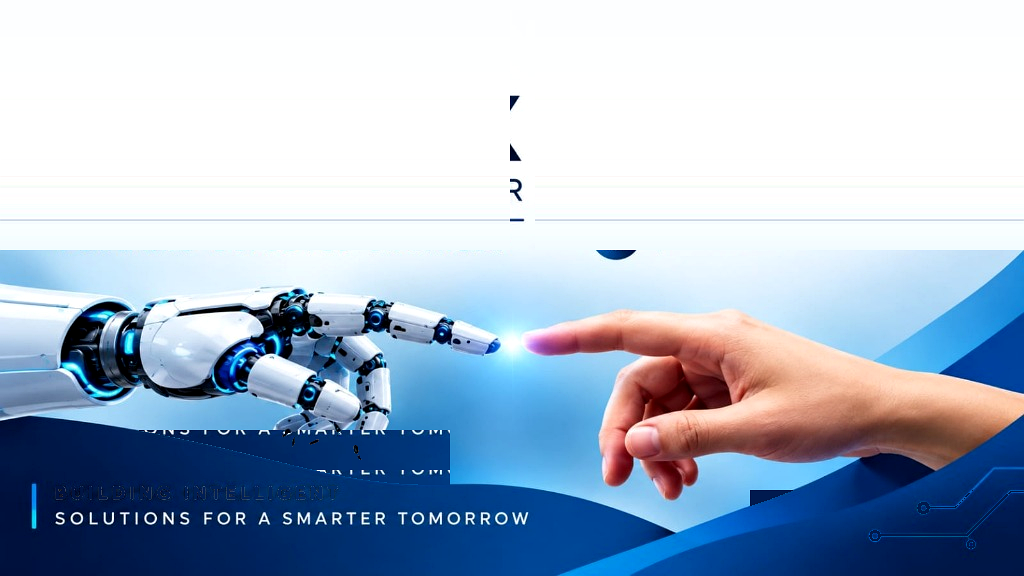
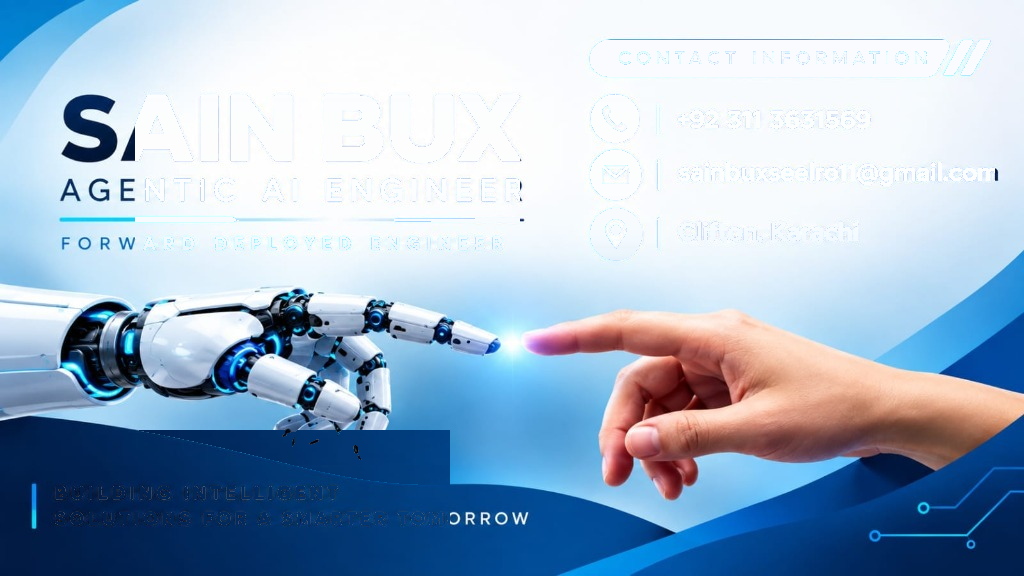
Set visiting card artwork without text in hero with aesthetic holographic sheen and 3D float

diff --git a/src/components/Hero.tsx b/src/components/Hero.tsx
@@ -73,43 +73,52 @@ export default function Hero() {
             </div>
           </div>
 
-          {/* Right Column: Prominent Robot & Human Hand Image */}
+          {/* Right Column: High-Tech Card (Clean Artwork without Fonts) */}
           <div className="lg:col-span-5 relative flex items-center justify-center w-full">
-            {/* Sleek aesthetic frame with floating motion */}
+            {/* Aesthetic Floating Card with 3D Float Motion */}
             <motion.div
               animate={{
-                y: [0, -8, 0],
+                y: [0, -10, 0],
+                rotateZ: [0, 0.6, -0.6, 0],
               }}
               transition={{
-                duration: 5,
+                duration: 6,
                 repeat: Infinity,
                 ease: "easeInOut",
               }}
-              whileHover={{ scale: 1.02 }}
-              className="relative w-full max-w-[540px] aspect-[16/9] rounded-2xl overflow-hidden shadow-xl shadow-[#0B1F5C]/10 border border-[#CFE6FF] bg-white group transition-all"
+              whileHover={{ scale: 1.03, y: -5 }}
+              className="relative w-full max-w-[540px] aspect-[16/9] rounded-2xl overflow-hidden shadow-[0_16px_36px_rgba(11,31,92,0.14),0_4px_12px_rgba(30,167,255,0.1)] border border-[#CFE6FF] bg-white group transition-all"
             >
-              {/* Top-left subtle pill badge: HUMAN x AI */}
-              <div className="absolute top-3 left-3 z-10 px-2.5 py-1 rounded-full bg-white/95 border border-[#CFE6FF] shadow-xs text-[10px] font-mono font-bold text-[#1553C7] flex items-center gap-1.5 pointer-events-none">
-                <span className="w-1.5 h-1.5 rounded-full bg-[#1EA7FF] animate-pulse" />
-                <span>HUMAN &times; AI SYNERGY</span>
-              </div>
-
               <Image
                 src="/hero-hands.png"
-                alt="AI Robot and Human Hand Touching with Glowing Energy Spark"
+                alt="Agentic AI & Engineering Cyber Card Art"
                 fill
                 sizes="(max-width: 768px) 100vw, (max-width: 1200px) 50vw, 540px"
                 priority
-                className="object-cover object-center transform group-hover:scale-105 transition-transform duration-700"
+                className="object-cover object-center transform group-hover:scale-102 transition-transform duration-700"
               />
 
-              {/* Crisp Star Glint (Zero blur!) */}
-              <div className="absolute top-[57.6%] left-[51.7%] -translate-x-1/2 -translate-y-1/2 pointer-events-none">
+              {/* Aesthetic Light Sheen Sweep Animation */}
+              <motion.div
+                animate={{
+                  x: ["-150%", "250%"],
+                }}
+                transition={{
+                  duration: 4,
+                  repeat: Infinity,
+                  repeatDelay: 3.5,
+                  ease: "easeInOut",
+                }}
+                className="absolute inset-0 w-1/3 h-full bg-gradient-to-r from-transparent via-white/25 to-transparent skew-x-12 pointer-events-none"
+              />
+
+              {/* Electric Cyan Touch Spark at exact coordinates: left-[50.2%] top-[59.2%] */}
+              <div className="absolute top-[59.2%] left-[50.2%] -translate-x-1/2 -translate-y-1/2 pointer-events-none">
                 {/* Clean Expanding Shockwave Ring (Sharp hairline border, no blur) */}
                 <motion.div
                   animate={{
-                    scale: [0.8, 2.2, 0.8],
-                    opacity: [0.85, 0, 0.85],
+                    scale: [0.7, 2.4, 0.7],
+                    opacity: [0.9, 0, 0.9],
                   }}
                   transition={{
                     duration: 2.2,
@@ -122,7 +131,7 @@ export default function Hero() {
                 {/* Rotating 4-Point Star Glint */}
                 <motion.div
                   animate={{
-                    scale: [0.9, 1.25, 0.9],
+                    scale: [0.9, 1.3, 0.9],
                     rotate: [0, 90, 180],
                   }}
                   transition={{
@@ -137,7 +146,7 @@ export default function Hero() {
                   {/* Vertical ray */}
                   <div className="absolute h-8 w-[1.5px] bg-gradient-to-b from-transparent via-white to-transparent" />
                   {/* Diamond glint core */}
-                  <div className="w-2.5 h-2.5 bg-white rotate-45 border border-[#1EA7FF]" />
+                  <div className="w-2.5 h-2.5 bg-white rotate-45 border border-[#1EA7FF] shadow-[0_0_6px_#1EA7FF]" />
                 </motion.div>
               </div>
             </motion.div>
